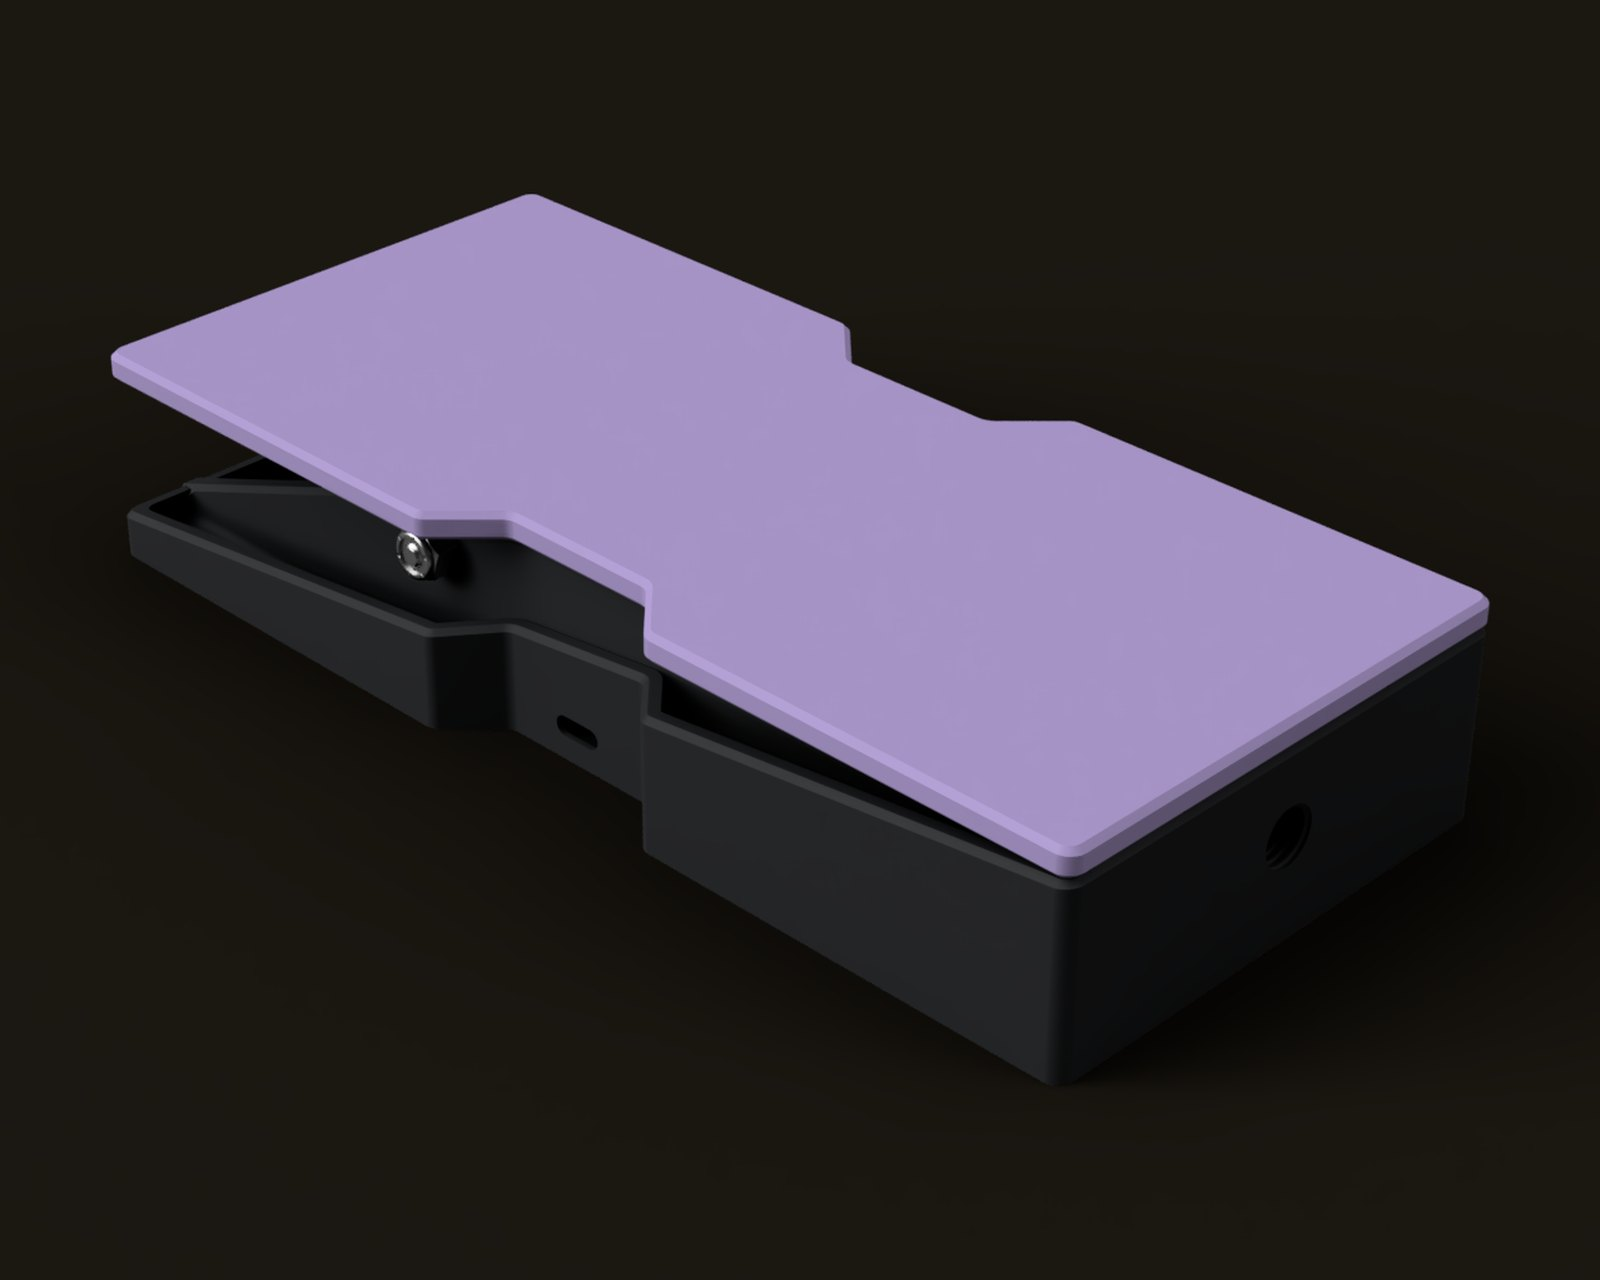
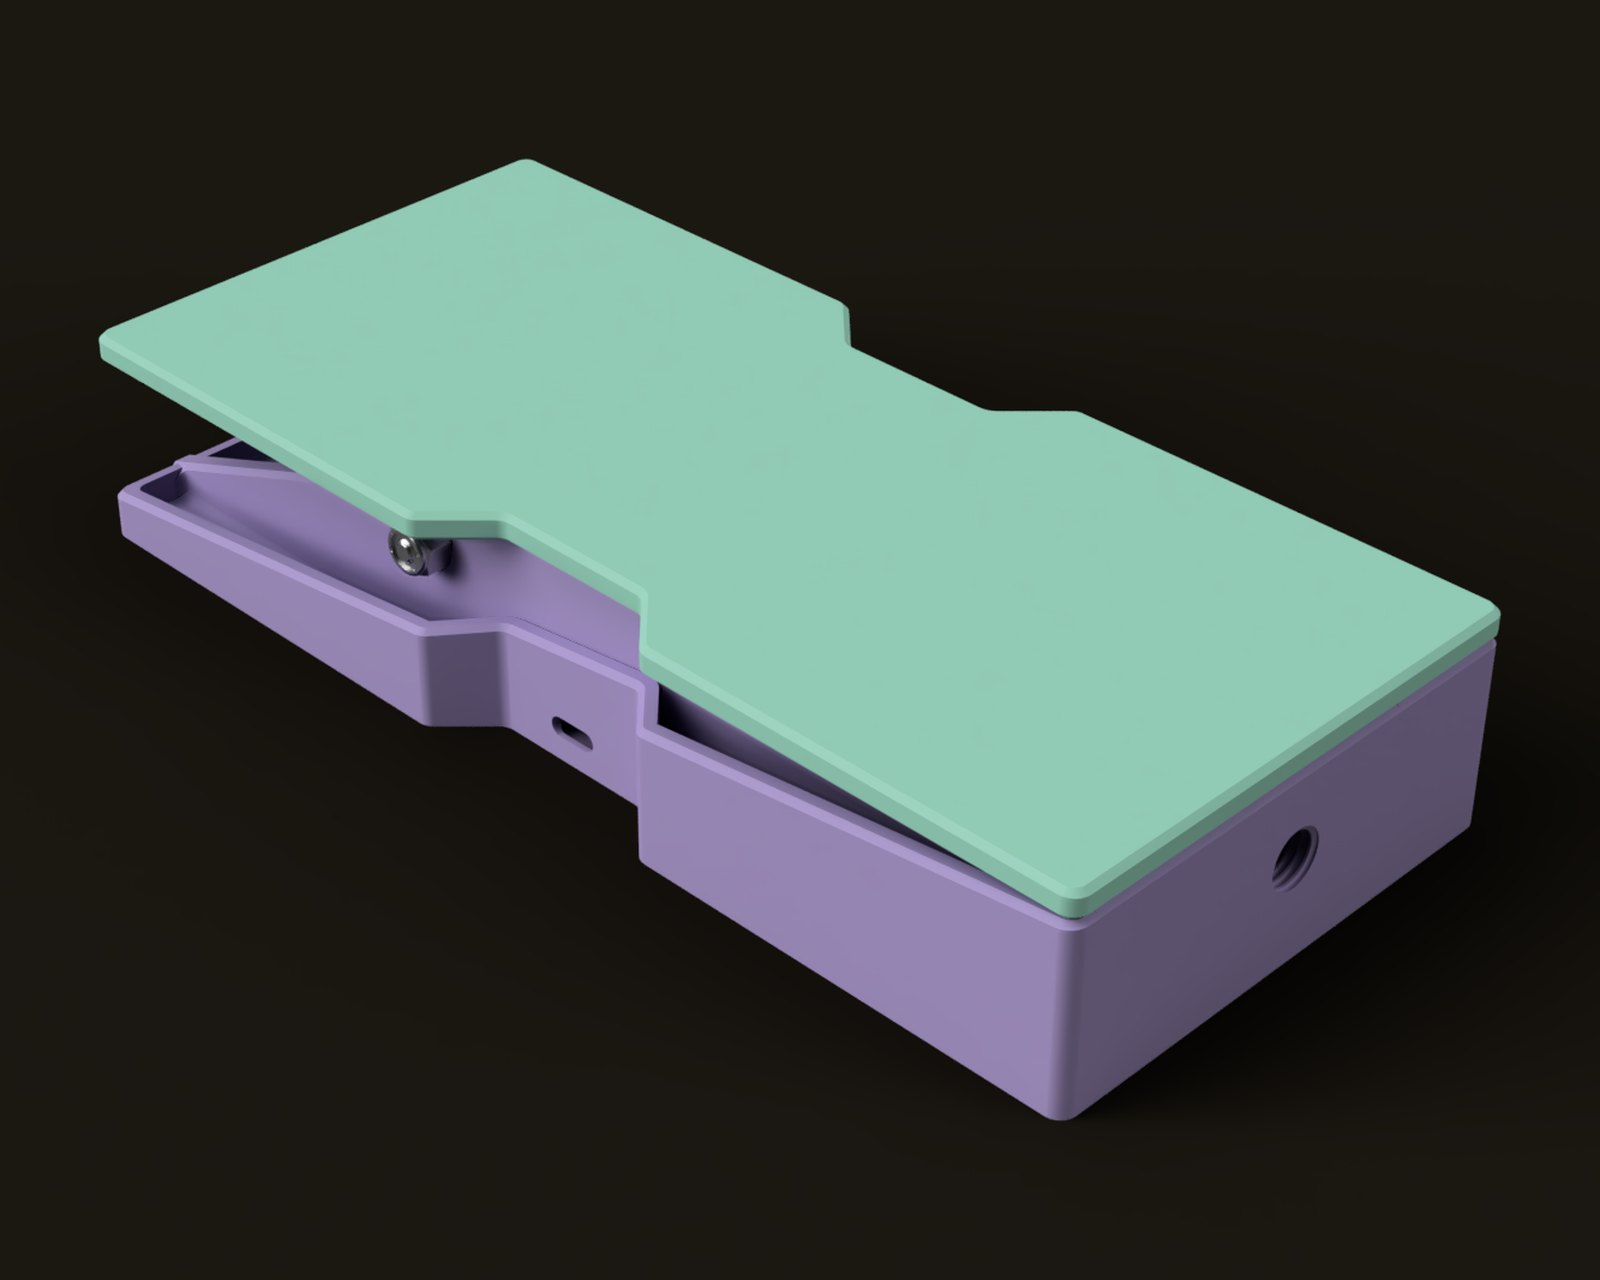
Clotho color ideas: new lavender, test bench with contrasting hexes, Prusa replaces cobalt

diff --git a/clotho.html b/clotho.html
@@ -68,12 +68,12 @@
   </ul>
 
   <h2>Color ideas</h2>
-  <p>Clotho is a lot of separate parts, so it doesn&rsquo;t have to be one color. In case you can&rsquo;t decide, here are a few ideas. The frame is the risers, base and electronics housing, the flyer is the body, arms and orifice, and the accents are the knobs, hooks and motor mounts. The hardware colors are just for the renders; your screws will be whatever color the screws on the parts list are.</p>
+  <p>Clotho is a lot of separate parts, so it doesn&rsquo;t have to be one color. In case you can&rsquo;t decide, here are a few ideas. The frame is the risers, base, electronics housing and brake retainers, the flyer is the body, arms and orifice, and the accents are the knobs, hooks and motor mounts. Each riser is two halves, so the inner halves (the ones that face each other) can be a different color from the outer ones, and it shows through the hexes. The hardware colors are just for the renders; your screws will be whatever color the screws on the parts list are.</p>
   <div class="colors">
     <figure><div class="pair"><img src="images/clotho-front.jpg" alt="Clotho rendered with a dark brown frame, jade green flyer, oxblood bobbin and motor mounts, and ivory knobs" loading="lazy"><img src="images/clotho-pedal.jpg" alt="Foot pedal with a dark brown base and oxblood top" loading="lazy"></div><p class="caption"><b>Radio.</b> Dark brown frame, jade flyer, oxblood bobbin and motor mounts, ivory knobs and hooks, brass hardware. The pedal gets a brown base, an oxblood top and a jade yoke. The radio I&rsquo;d have dreamed about (in black and white) if I&rsquo;d been born in 1925.</p></figure>
-    <figure><div class="pair"><img src="images/clotho-color-testbench.jpg" alt="Clotho rendered with a gray frame, black flyer, and teal bobbin, knobs, hooks and motor mounts" loading="lazy"><img src="images/clotho-color-testbench-pedal.jpg" alt="Foot pedal with a gray base and teal top" loading="lazy"></div><p class="caption"><b>Test bench.</b> Gray frame, black flyer, and teal for the bobbin, knobs, hooks and motor mounts, with stainless hardware. Gray pedal base, teal top, black yoke.</p></figure>
-    <figure><div class="pair"><img src="images/clotho-color-lavender.jpg" alt="Clotho rendered with a charcoal frame, lavender flyer and knobs, and mint bobbin, hooks and motor mounts" loading="lazy"><img src="images/clotho-color-lavender-pedal.jpg" alt="Foot pedal with a charcoal base and lavender top" loading="lazy"></div><p class="caption"><b>Lavender.</b> Charcoal frame, lavender flyer and knobs, and mint for the bobbin, hooks and motor mounts, with stainless hardware. Charcoal pedal base, lavender top, mint yoke.</p></figure>
-    <figure><div class="pair"><img src="images/clotho-color-cobalt.jpg" alt="Clotho rendered with a cobalt blue frame and bobbin and an off-white flyer and knobs" loading="lazy"><img src="images/clotho-color-cobalt-pedal.jpg" alt="Foot pedal with a cobalt base and off-white top" loading="lazy"></div><p class="caption"><b>Cobalt.</b> Cobalt frame, bobbin and hooks, off-white flyer, knobs and motor mounts, and black hardware. Cobalt pedal base with an off-white top and yoke. Two rolls and you&rsquo;re done.</p></figure>
+    <figure><div class="pair"><img src="images/clotho-color-testbench.jpg" alt="Clotho rendered with gray outer riser halves, teal inner halves showing through the hexes, a black base and flyer, and a teal bobbin, knobs, hooks and motor mounts" loading="lazy"><img src="images/clotho-color-testbench-pedal.jpg" alt="Foot pedal with a black base and teal top" loading="lazy"></div><p class="caption"><b>Test bench.</b> Gray outer riser halves with teal inner halves, black for the base, electronics housing, brake retainers and flyer, and teal for the bobbin, knobs, hooks and motor mounts, with stainless hardware. Black pedal base with a teal top and yoke.</p></figure>
+    <figure><div class="pair"><img src="images/clotho-color-lavender.jpg" alt="Clotho rendered with lavender outer riser halves, mint inner halves showing through the hexes, a butter yellow base and electronics housing, a lavender flyer and a mint bobbin" loading="lazy"><img src="images/clotho-color-lavender-pedal.jpg" alt="Foot pedal with a lavender base and mint top" loading="lazy"></div><p class="caption"><b>Lavender.</b> Lavender outer riser halves with mint inner halves, butter for the base, electronics housing and brake retainers, lavender flyer and knobs, and mint for the bobbin, hooks and motor mounts, with stainless hardware. Lavender pedal base, mint top, butter yoke.</p></figure>
+    <figure><div class="pair"><img src="images/clotho-color-prusa.jpg" alt="Clotho rendered with a black frame, orange inner riser halves showing through the hexes, an orange electronics housing, flyer and knobs, and a black bobbin" loading="lazy"><img src="images/clotho-color-prusa-pedal.jpg" alt="Foot pedal with an orange base and black top" loading="lazy"></div><p class="caption"><b>Prusa.</b> Black frame with Prusa orange inner riser halves and electronics housing, an orange flyer, knobs and motor mounts, a black bobbin and hooks, and black hardware. Orange pedal base with a black top and an orange yoke. Two rolls and you&rsquo;re done.</p></figure>
   </div>
 
   <h2>Files</h2>
